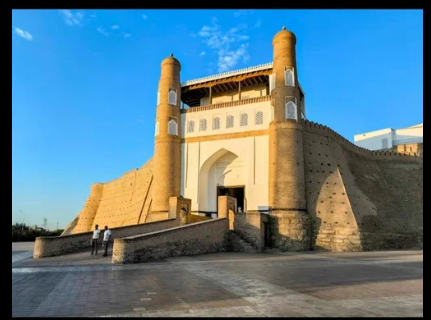
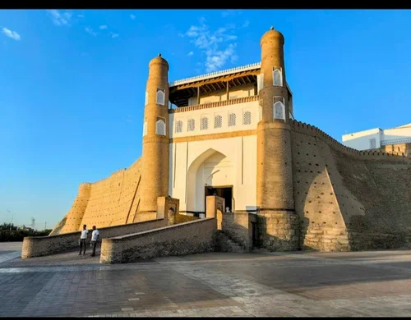
Crop letterbox black bars from source landmark PNGs and apply scale-110 object-cover to eliminate black side borders

diff --git a/src/components/sections/CountryExplorer.jsx b/src/components/sections/CountryExplorer.jsx
@@ -68,14 +68,14 @@ export default function CountryExplorer({
   const currentPrice = currentCountry.basePriceUSD || currentCountry.priceUSD || 80;
 
   return (
-    <section id="countries" className="py-20 sm:py-24 relative overflow-hidden bg-slate-900 border-y border-slate-200">
+    <section id="countries" className="py-20 sm:py-24 relative overflow-hidden bg-white border-y border-slate-200">
       
-      {/* 100% Pure, Crystal-Clear Bukhara Ark Background - ZERO OPACITY */}
+      {/* 100% Pure, Crystal-Clear Bukhara Ark Background - No Black Borders */}
       <div className="absolute inset-0 z-0 pointer-events-none overflow-hidden">
         <img
           src="/images/landmarks/bukhara-ark.png"
           alt="Bukhara Ark Historical Architecture"
-          className="w-full h-full object-cover object-center"
+          className="w-full h-full object-cover object-center scale-110"
         />
       </div>
 

diff --git a/src/components/sections/Hero.jsx b/src/components/sections/Hero.jsx
@@ -45,7 +45,7 @@ export default function Hero({ onSelectCountry, t, lang = 'uz' }) {
         <img
           src="/images/landmarks/samarkand-registan.png"
           alt="Samarkand Registan Square Historical Architecture"
-          className="w-full h-full object-cover object-center"
+          className="w-full h-full object-cover object-center scale-105"
         />
       </div>
 
